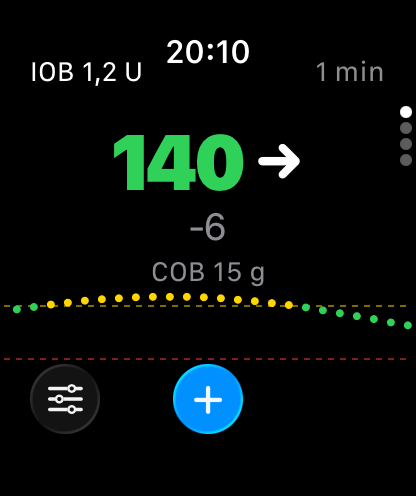
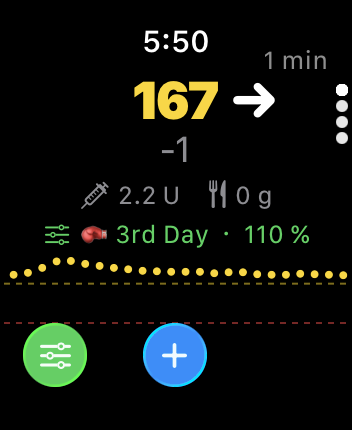
incorporate some claude suggestions; work in progress

diff --git a/docs/build/lf-browser-build.md b/docs/build/lf-browser-build.md
@@ -30,7 +30,7 @@ Detailed directions are found in the next sections, this is the summary of what 
 1. Create a `LoopFollow App Group` ([link](#create-app-group))
     * New with LoopFollow version 6.0 and newer
 1. Add the App Group to the Identifiers ([link](#add-app-group))
-    * New with LoopFollow version 8.0 and newer: the Apple Watch app adds 2 identifiers ([link](#update-for-the-apple-watch-app))
+    * New with LoopFollow version 8.0 and newer: the Apple Watch app adds 2 identifiers ([link](#update-to-loopfollow-v8))
 1. Create the App in App Store Connect and configure TestFlight users ([link](#create-app-in-app-store-connect))
 1. Configure TestFlight users for the *LoopFollow* app ([link](#add-users-to-testflight-for-app))
 1. `Build LoopFollow` ([link](#build-app))
@@ -138,28 +138,33 @@ The `Add Identifier` &nbsp;<span class=notranslate>Action</span>&nbsp; should su
 
 ## Create `App Group`
 
-New builders - just continue with the instructions as provided on this page. 
+New builders - just continue with the instructions as provided on this page. Skip ahead to [Create the LoopFollow Group](#create-the-loopfollow-group).
+
+Existing Browser Builders who have not updated:
+
+* since version 5.x or older need to follow both sets of update instructions below
+* since version 6.x or 7.x should skip to [Update to *LoopFollow* v8](#update-to-loopfollow-v8)
 
 ### Update to *LoopFollow* v6
 
 !!! important "Updating LoopFollow to version 6.0 and newer"
-    This information admonition is for existing builders who need to update.
+    This information admonition is for existing builders who need to update from version 5.x or older.
 
     The addition of Live Activity requires adding the LoopFollow App Group. Your build will fail until you take these one-time steps.
     
     If you are updating from an earlier version, **sync your fork** and then:
     
     1. Run the `Add Identifiers` action again
-    2. Create the LoopFollow App Group
+    2. [Create the LoopFollow App Group](#create-the-loopfollow-group){: target="_blank" }
     3. Add the LoopFollow App Group to the 2 identifiers:
         * LoopFollow
         * LoopFollow Live Activity Extension
 
 
-### Update to *LoopFollow* v8 { #update-for-the-apple-watch-app }
+### Update to *LoopFollow* v8
 
 !!! important "Updating LoopFollow to version 8.0 and newer"
-    This information admonition is for existing builders who need to update.
+    This information admonition is for existing builders who need to update from version 6.x or 7.x.
 
     The addition of the [Apple Watch app](../setup/apple-watch.md) requires 2 new identifiers with the LoopFollow App Group. Your build will fail until you take these one-time steps.
 
@@ -189,6 +194,8 @@ New builders - just continue with the instructions as provided on this page.
 
 The `LoopFollow` *App Group* already exists if you previously built the *LoopFollow* app using *Xcode* with this *Apple Developer ID*. In that case, skip ahead to [Optional: App Group Description Modification](#optional-app-group-description-modification) to update the description.
 
+## Create the LoopFollow Group
+
 If you have never built the *LoopFollow* app with *Xcode* using your `TEAMID`, you need to create an *App Group* associated with your `TEAMID`.
 
 1. Open this link: [Register an App Group](https://developer.apple.com/account/resources/identifiers/applicationGroup/add/) on the *Apple Developer* site.
@@ -217,9 +224,9 @@ If you get an error saying `An Application Group with Identifier 'group.com.TEAM
     * In the Description box in the upper left, edit the Description to match the **NAME**
     * Tap Save in the upper right and confirm the the change for that identifier._
 
-    Notice in the table below that the XCode version of the **NAME** for the `App Group` is the same as the **IDENTIFIER** but with the `.` replaced with a space.
+    Notice in the table below that the Xcode version of the **NAME** for the `App Group` is the same as the **IDENTIFIER** but with the `.` replaced with a space.
 
-    | NAME | XCode version | IDENTIFIER |
+    | NAME | Xcode version | IDENTIFIER |
     |:--|:--|:--|
     | LoopFollow App Group | group com TEAMID LoopFollow| group.com.TEAMID.LoopFollow |
 
@@ -229,7 +236,7 @@ You will need to add the `LoopFollow App Group` to the App Group capability for 
 
 ### Identifiers for the *LoopFollow* app
 
-For each identifier in the table below, click on the Identifer and then add the LoopFollow App Group to the App Group capability.
+For each Identifier in the table below, click on the Identifer and then add the LoopFollow App Group to the App Group capability.
 
 | Name (Description) | Bundle ID |
 | --- | --- |
@@ -244,7 +251,7 @@ For each identifier in the table below, click on the Identifer and then add the 
 
 If you previously built *LoopFollow* with *Xcode*, the NAME of an identifier may be the *Xcode* version instead of the name in the table above. The *Xcode* version starts with `XC`, followed by the Bundle ID with the `.` replaced by a space. Only the Bundle ID matters for the build, so look for the Bundle ID.
 
-| NAME | XCode version | IDENTIFIER |
+| NAME | Xcode version | IDENTIFIER |
 |:--|:--|:--|
 | <span translate="no">LoopFollow</span> | <span translate="no">XC com TEAMID LoopFollow</span> | <span translate="no">com.TEAMID.LoopFollow</span> |
 | <span translate="no">LoopFollow Live Activity Extension</span> | <span translate="no">XC com TEAMID LoopFollow LoopFollowLAExtension</span> | <span translate="no">com.TEAMID.LoopFollow.LoopFollowLAExtension</span> |
@@ -303,12 +310,12 @@ Refer to the table below to see how the App Group and Identifiers for LoopFollow
 | <span translate="no">LoopFollow Watch Complications</span> | <span translate="no">com.TEAMID.LoopFollow.watchkitapp.widgets</span> |
 | <span translate="no">LoopFollowSecond</span> | <span translate="no">com.TEAMID.LoopFollow.Second</span> |
 | <span translate="no">LoopFollowSecond Live Activity Extension</span> | <span translate="no">com.TEAMID.LoopFollow.Second.LoopFollowLAExtension</span> |
-| <span translate="no">LoopFollow Watch App</span> | <span translate="no">com.TEAMID.LoopFollow.Second.watchkitapp</span> |
-| <span translate="no">LoopFollow Watch Complications</span> | <span translate="no">com.TEAMID.LoopFollow.Second.watchkitapp.widgets</span> |
+| <span translate="no">LoopFollowSecond Watch App</span> | <span translate="no">com.TEAMID.LoopFollow.Second.watchkitapp</span> |
+| <span translate="no">LoopFollowSecond Watch Complications</span> | <span translate="no">com.TEAMID.LoopFollow.Second.watchkitapp.widgets</span> |
 | <span translate="no">LoopFollowThird</span> | <span translate="no">com.TEAMID.LoopFollow.Third</span> |
 | <span translate="no">LoopFollowThird Live Activity Extension</span> | <span translate="no">com.TEAMID.LoopFollow.Third.LoopFollowLAExtension</span> |
-| <span translate="no">LoopFollow Watch App</span> | <span translate="no">com.TEAMID.LoopFollow.Third.watchkitapp</span> |
-| <span translate="no">LoopFollow Watch Complications</span> | <span translate="no">com.TEAMID.LoopFollow.Third.watchkitapp.widgets</span> |
+| <span translate="no">LoopFollowThird Watch App</span> | <span translate="no">com.TEAMID.LoopFollow.Third.watchkitapp</span> |
+| <span translate="no">LoopFollowThird Watch Complications</span> | <span translate="no">com.TEAMID.LoopFollow.Third.watchkitapp.widgets</span> |
 
 - - -
 

diff --git a/docs/setup/apple-watch.md b/docs/setup/apple-watch.md
@@ -28,11 +28,10 @@ Turn the Digital Crown, or swipe up and down, to move between the pages: Glucose
 * The latest glucose value with its trend arrow and the change since the previous reading
     * Colors follow the *LoopFollow* settings on your *iPhone*: green in range, yellow high, red low, or white when *Color BG Text* is off
     * The value is struck through when the latest reading is 12 minutes old or more
-* Top left: insulin on board (IOB)
+* Under the Glucose: syringe icon: insulin on board (IOB) and Knife and fork icon: Carbs on board (COB)
 * Top right: minutes since the latest reading
     * An orange *iPhone* symbol means the watch cannot reach the *iPhone* right now
     * A blue watch symbol means the watch is fetching the data itself
-* Carbs on board (COB)
 * *Not looping* is shown in red when the loop has not reported for 15 minutes
 * A graph of the last two hours
 * Buttons for remote commands at the bottom, see [Remote Commands](#remote-commands)
@@ -40,6 +39,11 @@ Turn the Digital Crown, or swipe up and down, to move between the pages: Glucose
 When an alarm is sounding on the *iPhone*, its name is shown at the top of the page. Tap it to snooze the alarm on the *iPhone*. The watch app has no alarms of its own.
 
 ### Graph
+
+The Loop graph and out-of-date Trio graph are shown.
+
+![LoopFollow watch graph page](img/watch-graph-loop.png){width="200"}
+{align="center"}
 
 ![LoopFollow watch graph page](img/watch-graph-trio.png){width="200"}
 {align="center"}
@@ -82,6 +86,9 @@ The buttons on the glucose page send the same commands as the *LoopFollow* remot
 | **+** (middle) | Meal or Bolus |
 | Temp Target (right) | *Trio* only: start one of the temp target presets saved in *LoopFollow*, or cancel the active temp target |
 
+![how a command from the watch is sent](img/watch-command-flow.png){width="600"}
+{align="center"}
+
 ### Bolus
 
 | Set the amount | Confirm with the Digital Crown |
@@ -89,6 +96,9 @@ The buttons on the glucose page send the same commands as the *LoopFollow* remot
 | ![LoopFollow watch bolus amount](img/watch-bolus.png){width="200"} | ![LoopFollow watch bolus confirmation](img/watch-bolus-confirm.png){width="200"} |
 
 The bolus screen opens on the amount. Set it with the Digital Crown, or with the **−** and **+** buttons beside the amount. Each click changes the amount by one bolus increment, up to the *Max Bolus* in *LoopFollow*. Tap *Continue* to confirm.
+
+![how a bolus from the watch is sent](img/watch-bolus-flow.png){width="600"}
+{align="center"}
 
 **Starting at the recommendation**
 
@@ -145,6 +155,9 @@ Remote commands from the watch are on by default. To turn them off, open *LoopFo
 {align="center"}
 
 The watch normally gets its data and sends its commands through the *iPhone*. When the *iPhone* is switched off or out of reach, the watch carries on by itself:
+
+![LoopFollow watch fetching on its own](img/watch-data-flow.png){width="600"}
+{align="center"}
 
 * **Data**: when the *iPhone* has not sent anything for 10 minutes, the watch fetches glucose, IOB, COB, the prediction and treatments directly from *Nightscout*, or glucose from *Dexcom Share* if you do not use *Nightscout*. A blue watch symbol next to the minutes shows that the watch is fetching on its own. Statistics and the info table keep showing the *iPhone*'s latest values, with the time they are from.
 * **Commands**: when the *iPhone* is out of reach, the watch sends the command directly to *Loop* or *Trio*, checked against the limits it last received from the *iPhone*. The confirmation from *Loop* or *Trio* still goes to the *iPhone*, so check *Loop* or *Trio* for the result. Insulin can be sent from the watch alone at most once a minute.

diff --git a/docs/faqs/lf-history.md b/docs/faqs/lf-history.md
@@ -5,7 +5,7 @@
 ### Version 8.0.0
 
 !!! important "Browser Builders: one-time update"
-    The Apple Watch app adds 2 identifiers. Before your first build of v8.0.0, run `Add Identifiers` and add the LoopFollow App Group to the `LoopFollow Watch App` and `LoopFollow Watch Complications` identifiers, as described in [Update to LoopFollow v8](../build/lf-browser-build.md#update-for-the-apple-watch-app){: target="_blank" }. Until then, the automatic build fails with `The Apple Watch app identifiers are not set up yet`.
+    The Apple Watch app adds 2 identifiers. Before your first build of v8.0.0, run `Add Identifiers` and add the LoopFollow App Group to the `LoopFollow Watch App` and `LoopFollow Watch Complications` identifiers, as described in [Update to LoopFollow v8](../build/lf-browser-build.md#update-to-loopfollow-v8){: target="_blank" }. Until then, the automatic build fails with `The Apple Watch app identifiers are not set up yet`.
 
 !!! tip ""
     New with *LoopFollow* v8.0.0:
@@ -115,7 +115,7 @@ The feature history is summarized below in reverse chronological order.
 
 | *LoopFollow* Version | Feature Added |
 |:--|:--|
-| 8.0 | Apple Watch app with complications and remote commands - Browser Builders must add the LoopFollow App Group to 2 new identifiers<br>see [Browser Build: Update to LoopFollow v8](../build/lf-browser-build.md#update-for-the-apple-watch-app){: target="_blank" }; remote edit or delete of meals and carbs |
+| 8.0 | Apple Watch app with complications and remote commands - Browser Builders must add the LoopFollow App Group to 2 new identifiers<br>see [Browser Build: Update to LoopFollow v8](../build/lf-browser-build.md#update-to-loopfollow-v8){: target="_blank" }; remote edit or delete of meals and carbs |
 | 7.1 | "This Time" guide lines on previous days; Shortcuts actions for spoken BG; override duration for *Loop* remote overrides |
 | 7.0 | Requires iOS 18 or newer; first-run onboarding guide; graphs rebuilt on native Swift Charts |
 | 6.2 | WebSocket for near real-time *Nightscout* updates; Quick Pick remote buttons; Run Diagnostics for remote setup |
@@ -147,7 +147,7 @@ It also lists updates to the method for using Browser Build.
 With the addition of the Apple Watch app to *LoopFollow*, the build directions for browser build were updated.
 
 * If you use Browser Build, your automatic build will fail until you run `Add Identifiers` again and add the `LoopFollow App Group` to the 2 new identifiers: `LoopFollow Watch App` and `LoopFollow Watch Complications`.
-* Instructions start here: [Update to LoopFollow v8](../build/lf-browser-build.md#update-for-the-apple-watch-app){: target="_blank" }
+* Instructions start here: [Update to LoopFollow v8](../build/lf-browser-build.md#update-to-loopfollow-v8){: target="_blank" }
 * The Apple Watch app requires watchOS 10 or newer. The *iPhone* app still requires iOS 18 or newer.
 
 ### *LoopFollow* Version 6.1 and newer

diff --git a/docs/remote/remote-control-loop.md b/docs/remote/remote-control-loop.md
@@ -87,7 +87,7 @@ Carb entries from *Loop* can be edited or deleted on the [Treatments](../setup/l
 | ![Edit Carbs screen](img/lf-lrc-carb-edit.png){width="300"} | ![delete carbs confirmation](img/lf-lrc-carb-delete.png){width="300"} |
 |:--:|:--:|
 
-Carb entries can be changed up to 23 hours after their time.
+Carb entries can be edited up to 23 hours after their original entry time.
 
 The actions need the remote carb edit customization in the *Loop* app. Without it, the carb entry details show "Editing carbs needs the remote carb edit customization in Loop."
 
@@ -214,7 +214,8 @@ For remote overrides in particular:
         * If it is a named preset (override), the name is listed at the top of the screen in the Active Override row
         * If you want to see the details, you may need to scroll down to find that override in the list
         * A custom override (not named) shows up as "Custom Override" in the Active Override row - the details can be observed in the Information Table on the main *LoopFollow* screen
-    * The values set for the override may take up to 5 minutes to appear in the Information Table Display, at which time the %insulin needs and target are shown.
+    * With older versions of LoopFollow, the values set for the override may take up to 5 minutes to appear in the Information Table Display, at which time the %insulin needs and target are shown.
+    * With *LoopFollow* version 8.0.0, the remote command response is typically returned in seconds when APNs is working properly
 
 1. **Can a looper cancel a remote override**?  
    **Answer**: Yes. They can tap the heart icon <font color="blue">:fontawesome-solid-heart-pulse:</font> in&nbsp;_<span translate="no">Loop</span>_&nbsp;so that it is no longer highlighted. This turns off the override, regardless of where it was initiated.

diff --git a/docs/build/build-options.md b/docs/build/build-options.md
@@ -4,8 +4,8 @@
 
 * Browser Build: 
     * If you have never built, see [*LoopFollow* Browser Build](lf-browser-build.md)
-    * If you are updating from v5.x or older, first follow the one-time steps to [Update to *LoopFollow* v6](lf-browser-build.md#update-to-loopfollow-v6){: target="_blank" }, since the App Group must exist before it can be added to the watch identifiers
-    * If you are updating from v7.x or older, you need to follow the one-time steps to [Update to *LoopFollow* v8](lf-browser-build.md#update-for-the-apple-watch-app){: target="_blank" }
+    * If you are updating from v5.x or older, you must follow the one-time steps to [Update to *LoopFollow* v6](lf-browser-build.md#update-to-loopfollow-v6){: target="_blank" } and [Update to *LoopFollow* v8](lf-browser-build.md#update-to-loopfollow-v8){: target="_blank" }
+    * If you are updating from v6.x or v7.x, you need to follow the one-time steps to [Update to *LoopFollow* v8](lf-browser-build.md#update-to-loopfollow-v8){: target="_blank" }
 * Mac-Xcode: [Build *LoopFollow* Script for Mac-Xcode](#build-loopfollow-script-for-mac-xcode)
 
 ### Build *LoopFollow* Script for Mac-Xcode

diff --git a/docs/setup/lf-setup.md b/docs/setup/lf-setup.md
@@ -274,6 +274,9 @@ These settings are accessed through the General row in the Settings screen.
 | Show Display Name | When enabled, the app name is shown on the Home screen<br>Very useful if more than one person is being followed|
 | Snoozer Emoji | When enabled, the snoozer screen shows emojis in addition to glucose values |
 | Force Portrait Mode | When enabled, aspect ratio is not affected by phone orientation |
+| Statistics: Display Stats | When enabled, statistics are displayed at the bottom of the home screen<br>Ranges are chosen under [Settings->Units and Metrics](#units-and-metrics){: target="_blank" } |
+| Statistics: Stats Style | Options are<br>- Statistics Box: original pie-chart with table<br>- Time in Range Band: graphical, colored bar |
+| Statistics: Stats Period | Options are<br>- last 24 hours<br>- Time since midnight |
 | Time Zone Override | When enabled, another row is displayed<br>Select the time zone for the T1D who is being followed |
 | Speak BG | When enabled, glucose is spoken aloud in selected language<br>Options are available to limit this but see also Persistent Notification |
 

diff --git a/docs/setup/lf-features.md b/docs/setup/lf-features.md
@@ -121,8 +121,10 @@ The table below lists every alarm type available in *LoopFollow*, organized by g
 | Alarm | Description |
 |:--|:--|
 | Override Started | An override just started |
+| Override Ends Soon | User can select an early warning time from 0 to 30 min, steps of 5 |
 | Override Ended | An override ended |
 | Temp Target Started | A temp target started |
+| Temp Target Ends Soon | User can selectan early warning time from 0 to 30 min, steps of 5 |
 | Temp Target Ended | A temp target ended |
 
 
